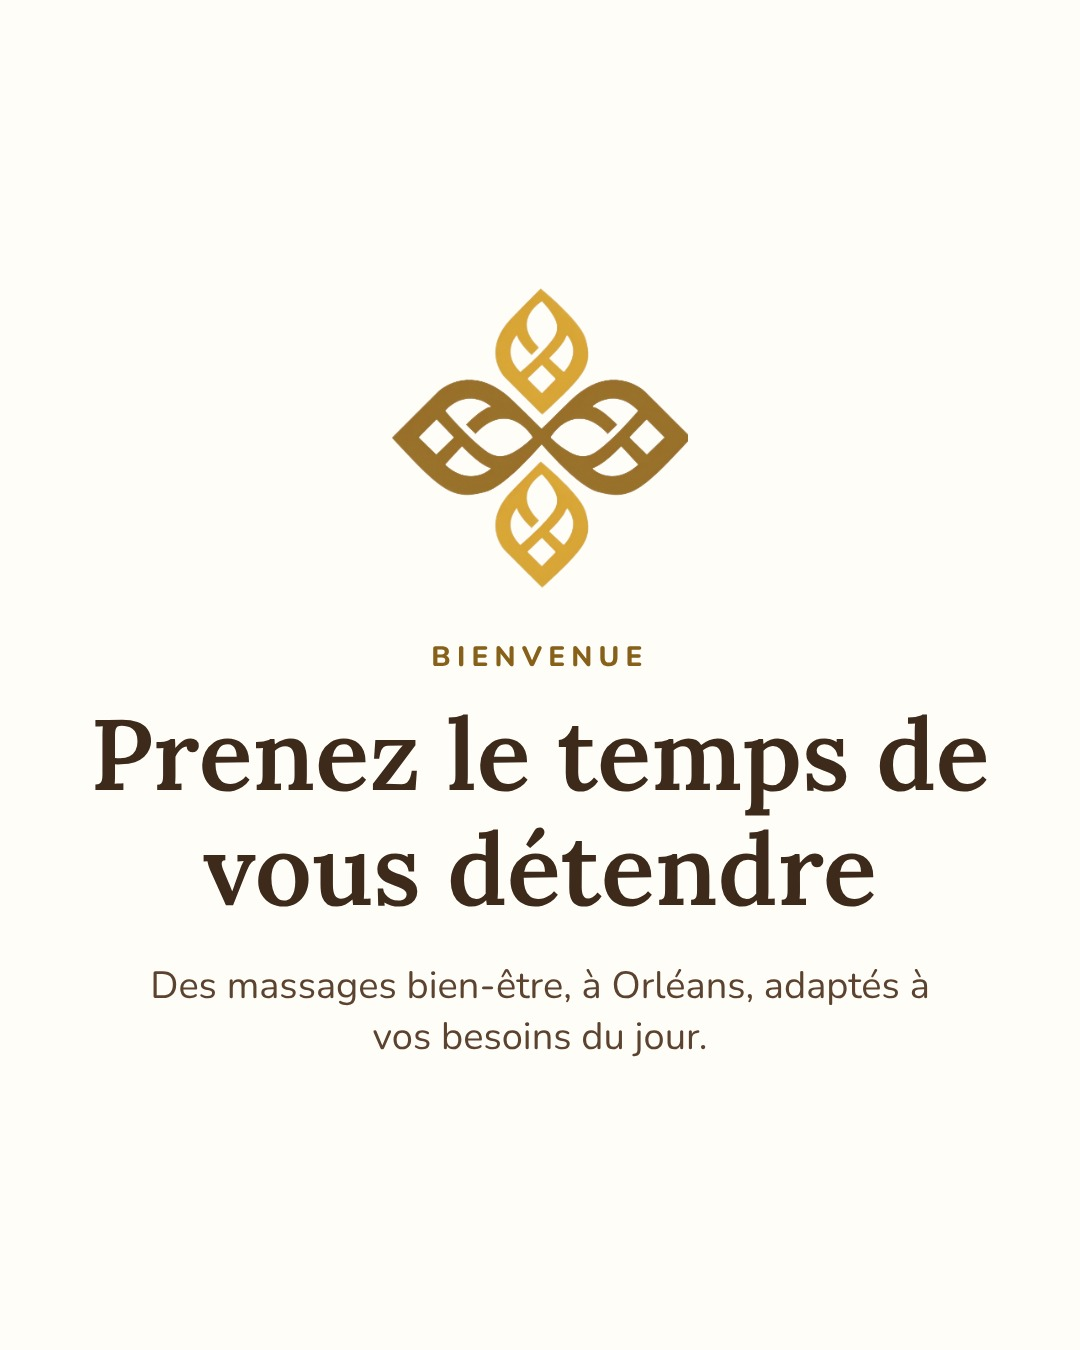
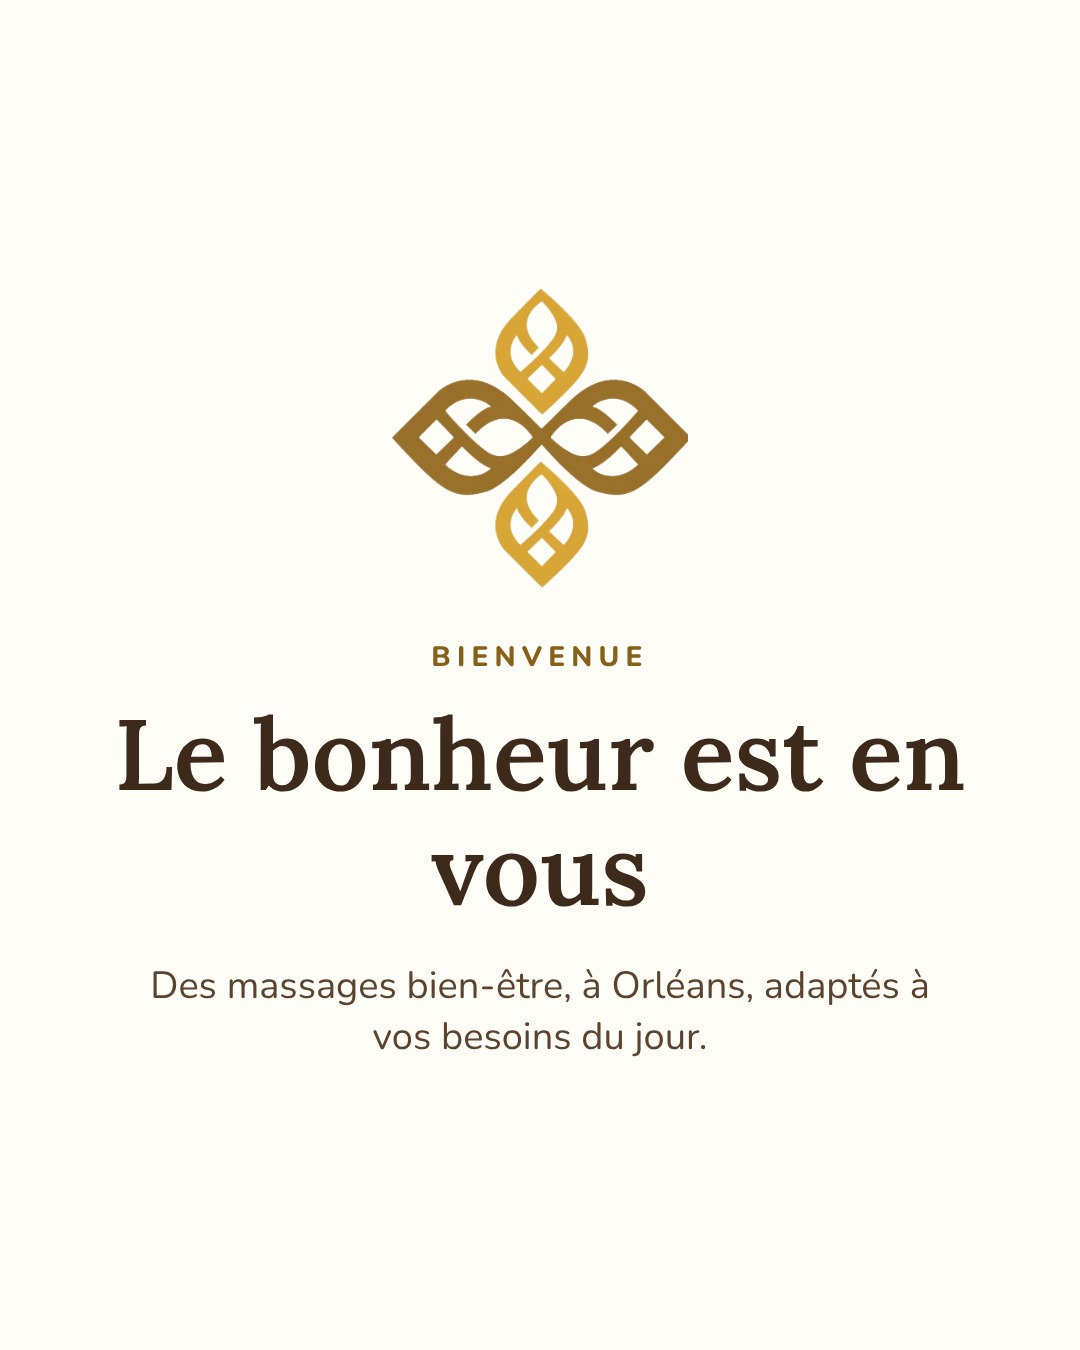
Graphisme : visuel de bienvenue avec le slogan « Le bonheur est en vous »
Claude-Session: https://claude.ai/code/session_01FhKW6d7NffjTyYvYf6zG3G

Changed region(s): [[0.0917, 0.5289, 0.9167, 0.6844]]

diff --git a/graphisme/generer.js b/graphisme/generer.js
@@ -324,7 +324,7 @@ const grille = [
   ['13-grille-accueil', surPhoto('accueil.jpg', { surtitre: 'Sushumna · Orléans', titre: 'Un moment pour vous', sous: 'Massages bien-être personnalisés', position: 'center 30%' })],
   ['14-grille-bienvenue', surCreme(`<img src="../assets/embleme-hd.png" alt="" style="height:300px;width:auto;margin-bottom:50px">
 <p class="surtitre" style="font-size:28px">Bienvenue</p>
-<h2 class="titre" style="font-size:100px;margin:20px 0 34px">Prenez le temps de vous détendre</h2>
+<h2 class="titre" style="font-size:100px;margin:20px 0 34px">Le bonheur est en vous</h2>
 <p class="sous" style="font-size:38px;max-width:780px">Des massages bien-être, à Orléans, adaptés à vos besoins du jour.</p>`)],
   ['15-grille-relaxant', surPhoto('massage-relaxant.jpg', { surtitre: 'Massage', titre: 'Relaxant', sous: 'Relâche et apaise', position: 'center' })],
   ['16-grille-reservation', surCreme(`<p class="surtitre" style="font-size:28px">Réserver</p>

diff --git a/graphisme/sources/14-grille-bienvenue.html b/graphisme/sources/14-grille-bienvenue.html
@@ -40,7 +40,7 @@ body{width:var(--w);height:var(--h);overflow:hidden;background:var(--creme);colo
 </svg>
 <div class="page"><img src="../assets/embleme-hd.png" alt="" style="height:300px;width:auto;margin-bottom:50px">
 <p class="surtitre" style="font-size:28px">Bienvenue</p>
-<h2 class="titre" style="font-size:100px;margin:20px 0 34px">Prenez le temps de vous détendre</h2>
+<h2 class="titre" style="font-size:100px;margin:20px 0 34px">Le bonheur est en vous</h2>
 <p class="sous" style="font-size:38px;max-width:780px">Des massages bien-être, à Orléans, adaptés à vos besoins du jour.</p></div>
 </body>
 </html>
